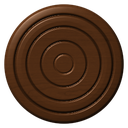
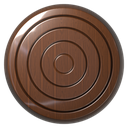
Боковое меню партии, шашки и кубики из Blender
- ☰ во время игры открывает прозрачную шторку слева: продолжить, начать заново, доска, звук, правила, главное меню;
  сложность видна, но закреплена за партией — новая применяется со следующей
- шашки (кость, оникс, бук, орех) и грани кубика — рендер Blender: точёный профиль, лак, высверленные лунки

Claude-Session: https://claude.ai/code/session_013vq6NREHT7txoK1nXmxN83

diff --git a/index.html b/index.html
@@ -116,12 +116,12 @@ svg#board{position:absolute;inset:0;width:100%;height:100%;display:block}
 .d3 .cube{position:absolute;inset:0;transform-style:preserve-3d}
 .d3 .face{
   position:absolute;inset:0;border-radius:18%;backface-visibility:hidden;-webkit-backface-visibility:hidden;
-  background:radial-gradient(circle at 32% 28%,#fffdf6 0%,#efe5cf 55%,#d4c4a0 100%);
-  box-shadow:inset 0 0 0 1px rgba(176,138,62,.55),inset 0 calc(var(--ds,50px) * -.06) calc(var(--ds,50px) * .12) rgba(90,60,20,.25);
+  background:center/100% 100% no-repeat;   /* грань — рендер из Blender (boards/die-N.png), точки уже на ней */
   display:grid;grid-template:repeat(3,1fr)/repeat(3,1fr);padding:16%;
 }
 /* внутренний сердечник: закрывает щели между скруглёнными гранями, когда кубик повёрнут ребром */
-.d3 .core{position:absolute;inset:3%;border-radius:16%;background:#d9cba8}
+.d3 .core{position:absolute;inset:3%;border-radius:16%;background:#d8cdb0}
+.d3 .face i{visibility:hidden}
 /* лежащий кубик: боковые грани и сердечник скрыты, иначе при повороте на 90° их рёбра просвечивают тонкими линиями */
 .d3.still .face:not(.top),.d3.still .core{visibility:hidden}
 .d3 .pip{width:68%;height:68%;margin:auto;border-radius:50%;background:radial-gradient(circle at 40% 35%,#3a2a1a,#0f0904);box-shadow:inset 0 1px 1px rgba(0,0,0,.6)}
@@ -186,6 +186,26 @@ svg#board{position:absolute;inset:0;width:100%;height:100%;display:block}
 .seg{display:grid;grid-template-columns:repeat(3,1fr);border:1px solid var(--line);border-radius:10px;overflow:hidden}
 .seg button{border:0;border-radius:0;background:transparent;color:var(--muted);padding:10px 6px}
 .seg button.on{background:rgba(217,181,106,.16);color:var(--gold-hi)}
+.drawer-back{position:absolute;inset:0;z-index:6;background:rgba(0,0,0,.18);animation:fadeIn .2s ease-out}
+.drawer{position:absolute;top:0;bottom:0;left:0;width:min(340px,86%);overflow:auto;
+  background:rgba(18,13,9,.42);-webkit-backdrop-filter:blur(14px) saturate(1.2);backdrop-filter:blur(14px) saturate(1.2);   /* прозрачная шторка: сквозь неё видна доска */
+  border-right:1px solid rgba(217,181,106,.25);box-shadow:20px 0 50px rgba(0,0,0,.35);text-shadow:0 1px 2px rgba(0,0,0,.6);
+  padding:max(16px,var(--sat)) 18px max(16px,var(--sab)) max(18px,var(--sal));display:flex;flex-direction:column;gap:10px;
+  animation:slideIn .25s cubic-bezier(.2,.8,.2,1)}
+.drawer h3{font-family:var(--display);font-weight:400;font-size:28px;color:var(--gold-hi);margin:0 0 4px}
+.drawer h4{margin:8px 0 0;font-size:11px;letter-spacing:.16em;text-transform:uppercase;color:var(--muted);font-weight:500}
+.dclose{position:absolute;top:max(10px,var(--sat));right:10px;width:36px;height:36px;padding:0;border-radius:50%;border-color:transparent;background:transparent;color:var(--muted)}
+.dskins{display:grid;grid-template-columns:1fr 1fr;gap:8px}
+.drawer button:not(.primary):not(.skin){background:rgba(31,25,18,.45)}
+.drawer .seg{background:rgba(31,25,18,.35)}
+.dskins .skin{padding:4px;gap:4px;background:rgba(31,25,18,.45)}.dskins .skin span{font-size:12px}
+.dlevel{margin:0;display:flex;flex-direction:column;gap:3px;font-size:13px;color:var(--muted)}
+.dlevel b{color:var(--fg);font-weight:500;font-size:14.5px}
+.dlevel span::before{content:"🔒 "}
+.dfoot{margin-top:auto;display:grid;grid-template-columns:1fr 1fr;gap:8px;padding-top:8px}
+@keyframes slideIn{from{transform:translateX(-100%)}}
+@keyframes fadeIn{from{opacity:0}}
+@media (prefers-reduced-motion:reduce){.drawer,.drawer-back{animation:none}}
 .nettext{margin:0;color:var(--muted);font-size:14.5px}
 .netlink{font-size:14px;color:var(--gold-hi);background:#0f0b08;border:1px solid var(--line);border-radius:10px;padding:10px 12px;word-break:break-all;-webkit-user-select:text;user-select:text}
 .hint{font-size:12.5px;color:var(--muted);margin:-6px 0 0}
@@ -231,6 +251,30 @@ svg#board{position:absolute;inset:0;width:100%;height:100%;display:block}
       </svg>
       <div class="dice3d" id="dice3d"></div>
     </div>
+  </div>
+
+  <div class="drawer-back" id="drawer" hidden>
+    <aside class="drawer" role="dialog" aria-label="Меню партии">
+      <button class="dclose" id="dClose" aria-label="Закрыть">✕</button>
+      <h3>Партия</h3>
+      <button class="primary" id="dResume">Продолжить игру</button>
+      <button id="dNew">Начать заново</button>
+      <h4>Доска</h4>
+      <div class="dskins" id="dSkins"></div>
+      <h4>Звук</h4>
+      <div class="seg" id="dSounds" style="grid-template-columns:1fr 1fr">
+        <button data-snd="on">Включён</button>
+        <button data-snd="off">Выключен</button>
+      </div>
+      <div id="dLevelBox">
+        <h4>Сложность компьютера</h4>
+        <p class="dlevel"><b id="dLevel"></b><span>Во время партии не меняется — выберите в настройках главного меню перед новой игрой.</span></p>
+      </div>
+      <div class="dfoot">
+        <button id="dRules">Правила</button>
+        <button id="dMain">Главное меню</button>
+      </div>
+    </aside>
   </div>
 
   <div class="win" id="over" hidden>
@@ -327,7 +371,7 @@ svg#board{position:absolute;inset:0;width:100%;height:100%;display:block}
 (()=>{
 'use strict';
 const $=id=>document.getElementById(id);
-const APP_VERSION='21';   // совпадает с VERSION в sw.js; добавляется к адресам картинок, чтобы новые доски не брались из старого кэша
+const APP_VERSION='22';   // совпадает с VERSION в sw.js; добавляется к адресам картинок, чтобы новые доски не брались из старого кэша
 const NS='http://www.w3.org/2000/svg';
 const f2=v=>(+v).toFixed(1);
 
@@ -379,6 +423,7 @@ const SKINS={
 };
 // картинки грузим заранее, чтобы смена доски и первые шашки не мигали
 $('app').style.setProperty('--table',`url(boards/table.webp?v=${APP_VERSION})`);
+for(let f=1;f<=6;f++){const im=new Image();im.src=`boards/die-${f}.png?v=${APP_VERSION}`;}
 for(const k of [...Object.keys(SKINS),...Object.keys(CK).map(c=>'ck-'+c)]){const im=new Image();im.src=`boards/${k}.${k.startsWith('ck-')?'png':'webp'}?v=${APP_VERSION}`;}
 
 /* ---------- правила ---------- */
@@ -595,7 +640,7 @@ function saveGame(){
   try{
     if(G.phase==='over'||G.phase==='start'){localStorage.removeItem('nardy-game-v1');return;}
     const phase=G.phase==='rolling'?'roll':G.phase;
-    localStorage.setItem('nardy-game-v1',JSON.stringify({mode,s:{o:[...G.s.o],n:[...G.s.n],off:G.s.off},turn:G.turn,phase,dice:G.dice,diceAt:G.diceAt,rem:G.rem,headUsed:G.headUsed,headLimit:G.headLimit,first:G.first}));
+    localStorage.setItem('nardy-game-v1',JSON.stringify({mode,s:{o:[...G.s.o],n:[...G.s.n],off:G.s.off},turn:G.turn,phase,dice:G.dice,diceAt:G.diceAt,rem:G.rem,headUsed:G.headUsed,headLimit:G.headLimit,first:G.first,level:G.level}));
   }catch(e){}
 }
 function readSaved(){try{return JSON.parse(localStorage.getItem('nardy-game-v1')||'null');}catch(e){return null;}}
@@ -619,7 +664,7 @@ function newGame(m){
   clearTimers(); netLeave();
   if(m) mode=m;
   loadScore();
-  G={s:freshState(),turn:0,phase:'start',dice:[0,0],diceAt:null,rem:[],headUsed:0,headLimit:1,first:[true,true],hist:[],sel:null,steps:[],targets:null};
+  G={s:freshState(),turn:0,phase:'start',dice:[0,0],diceAt:null,rem:[],headUsed:0,headLimit:1,first:[true,true],hist:[],sel:null,steps:[],targets:null,level:settings.level};   // сложность закреплена за партией
   $('over').hidden=true; busy=false; flyHide=null; $('lFx').innerHTML=''; clearDice();
   showGame();
   render();
@@ -629,7 +674,7 @@ function resumeGame(){
   const v=readSaved(); if(!v){newGame(mode);return;}
   clearTimers();
   mode=v.mode; loadScore();
-  G={s:{o:Int8Array.from(v.s.o),n:Int8Array.from(v.s.n),off:v.s.off},turn:v.turn,phase:v.phase,dice:v.dice,diceAt:v.diceAt||null,rem:v.rem,headUsed:v.headUsed,headLimit:v.headLimit,first:v.first,hist:[],sel:null,steps:[],targets:null};
+  G={s:{o:Int8Array.from(v.s.o),n:Int8Array.from(v.s.n),off:v.s.off},turn:v.turn,phase:v.phase,dice:v.dice,diceAt:v.diceAt||null,rem:v.rem,headUsed:v.headUsed,headLimit:v.headLimit,first:v.first,hist:[],sel:null,steps:[],targets:null,level:v.level||settings.level};
   $('over').hidden=true; busy=false; flyHide=null; $('lFx').innerHTML='';
   showGame();
   if(G.phase==='move') placeDice(G.dice); else clearDice();
@@ -659,7 +704,7 @@ function dieEl(v){
   for(const f of [1,2,3,4,5,6]){
     const [a,b]=FACE[f]; let pips='';
     for(let k=0;k<9;k++) pips+=PIPIDX[f].includes(k)?`<i class="pip${f===1?' red':''}"></i>`:'<i></i>';
-    faces+=`<div class="face${f===v?' top':''}" style="transform:rotateX(${a}deg) rotateY(${b}deg) translateZ(calc(var(--ds) / 2))">${pips}</div>`;
+    faces+=`<div class="face${f===v?' top':''}" style="background-image:url(boards/die-${f}.png?v=${APP_VERSION});transform:rotateX(${a}deg) rotateY(${b}deg) translateZ(calc(var(--ds) / 2))">${pips}</div>`;
     faces+=`<div class="core" style="transform:rotateX(${a}deg) rotateY(${b}deg) translateZ(calc(var(--ds) * .47))"></div>`;
   }
   el.innerHTML=`<div class="shadow"></div><div class="mover"><div class="cube">${faces}</div></div>`;
@@ -970,7 +1015,7 @@ function aiTurn(){
   });
 }
 function aiPlay(){
-  const path=aiChoose(settings.level); let k=0;
+  const path=aiChoose(G.level||settings.level); let k=0;
   const next=()=>{
     if(G.phase!=='move') return;
     if(k>=path.length){later(endTurn,450);return;}
@@ -1378,7 +1423,7 @@ function renderPanel(){
   if(mode==='net') for(const pl of [0,1]) $('n'+pl).textContent=pl===G.me?'Вы':'Друг'+(NET&&NET.ready&&!NET.opp?' · не в сети':'');
   else{
     $('n0').textContent=mode==='ai'?'Вы':'Белые';
-    $('n1').textContent=mode==='ai'?`Компьютер · ${LEVELS[settings.level][1]}`:'Чёрные';
+    $('n1').textContent=mode==='ai'?`Компьютер · ${LEVELS[G.level||settings.level][1]}`:'Чёрные';
   }
   const human=isHuman(G.turn);
   $('bMain').hidden=!(G.phase==='move'&&human&&!busy&&!G.auto&&!G.steps.length&&!G.netPend);
@@ -1430,17 +1475,21 @@ function buildSkinPicker(){
     for(let n=0;n<5;n++){const [x,y]=slotXY(12,n,5);pv+=checker(x,y,1,0,sk.ck);}
     h+=`<button class="skin" data-skin="${k}"><svg viewBox="0 0 1100 700"><image href="boards/${k}-thumb.webp?v=${APP_VERSION}" x="0" y="0" width="1100" height="700"/>${pv}</svg><span>${sk.name}</span></button>`;
   }
-  $('skins').innerHTML=h;
+  $('skins').innerHTML=h; $('dSkins').innerHTML=h;
 }
 function paintSettings(){
+  document.querySelectorAll('#dSkins .skin').forEach(b=>b.classList.toggle('on',b.dataset.skin===settings.skin));
+  document.querySelectorAll('#dSounds button').forEach(b=>b.classList.toggle('on',(b.dataset.snd==='on')===settings.sound));
   document.querySelectorAll('#skins .skin').forEach(b=>b.classList.toggle('on',b.dataset.skin===settings.skin));
   document.querySelectorAll('#levels button').forEach(b=>b.classList.toggle('on',b.dataset.lvl===settings.level));
   document.querySelectorAll('#sounds button').forEach(b=>b.classList.toggle('on',(b.dataset.snd==='on')===settings.sound));
-  $('lvlHint').textContent=LEVELS[settings.level][2];
+  const playing=mode==='ai'&&G&&G.phase!=='over'&&(G.level||settings.level)!==settings.level;
+  $('lvlHint').textContent=LEVELS[settings.level][2]+(playing?` Начатая партия доигрывается на уровне «${LEVELS[G.level][1]}», новый — со следующей.`:'');
   $('lvlCap').textContent='Сложность: '+LEVELS[settings.level][1];
 }
-$('skins').addEventListener('click',e=>{const b=e.target.closest('.skin'); if(!b) return; settings.skin=b.dataset.skin; saveSettings(); buildStatic(); if(G) render(); paintSettings();});
+for(const id of ['skins','dSkins']) $(id).addEventListener('click',e=>{const b=e.target.closest('.skin'); if(!b) return; settings.skin=b.dataset.skin; saveSettings(); buildStatic(); if(G) render(); paintSettings();});
 $('levels').addEventListener('click',e=>{const b=e.target.closest('button'); if(!b) return; settings.level=b.dataset.lvl; saveSettings(); paintSettings(); if(G) renderPanel();});
+$('dSounds').addEventListener('click',e=>{const b=e.target.closest('button'); if(!b) return; settings.sound=b.dataset.snd==='on'; saveSettings(); paintSettings(); if(settings.sound){ac();sClack(false);}});
 $('sounds').addEventListener('click',e=>{const b=e.target.closest('button'); if(!b) return; settings.sound=b.dataset.snd==='on'; saveSettings(); paintSettings(); if(settings.sound){ac();sClack(false);}});
 $('bSettings').addEventListener('click',()=>{ if(!$('skins').innerHTML) buildSkinPicker(); paintSettings(); $('settings').hidden=false; });
 $('bSettingsClose').addEventListener('click',()=>{$('settings').hidden=true;});
@@ -1470,7 +1519,23 @@ $('bMain').addEventListener('click',()=>{
   if(G.phase==='move'&&!G.steps.length&&!G.auto&&!busy) humanEnd();
 });
 $('bUndo').addEventListener('click',undo);
-$('bMenu').addEventListener('click',()=>{ if(!busy&&!G.auto) showMenu(); });
+// ☰ во время партии — боковая шторка: доска, звук, правила, выход в меню. Сложность видна, но не меняется до новой партии.
+function openDrawer(){
+  if(!$('dSkins').innerHTML) buildSkinPicker();
+  paintSettings();
+  $('dNew').hidden=mode==='net';
+  $('dLevelBox').hidden=mode!=='ai';
+  $('dLevel').textContent=LEVELS[G.level||settings.level][0];
+  $('drawer').hidden=false;
+}
+const closeDrawer=()=>{ $('drawer').hidden=true; };
+$('bMenu').addEventListener('click',openDrawer);
+$('dClose').addEventListener('click',closeDrawer);
+$('dResume').addEventListener('click',closeDrawer);
+$('drawer').addEventListener('click',e=>{ if(e.target===$('drawer')) closeDrawer(); });
+$('dNew').addEventListener('click',()=>{ if(busy||G.auto) return; if(!confirm('Начать партию заново? Текущая позиция пропадёт.')) return; closeDrawer(); ac(); newGame(mode); });
+$('dRules').addEventListener('click',()=>{ closeDrawer(); $('rules').hidden=false; });
+$('dMain').addEventListener('click',()=>{ if(busy||G.auto) return; closeDrawer(); showMenu(); });
 $('bAgain').addEventListener('click',()=>{ac(); if(mode==='net'){ if(NET) netSend({t:'new'}); } else newGame(mode);});
 $('bToMenu').addEventListener('click',showMenu);
 $('mAi').addEventListener('click',()=>{ac();newGame('ai');});
@@ -1491,7 +1556,8 @@ $('bRules').addEventListener('click',()=>{$('rules').hidden=false;});
 $('bRulesClose').addEventListener('click',()=>{$('rules').hidden=true;});
 $('rules').addEventListener('click',e=>{if(e.target===$('rules'))$('rules').hidden=true;});
 document.addEventListener('keydown',e=>{
-  if(!G||!$('menu').hidden) return;
+  if(e.key==='Escape'&&!$('drawer').hidden){ closeDrawer(); return; }
+  if(!G||!$('menu').hidden||!$('drawer').hidden) return;
   if(e.target.closest('button')) return;
   if(e.code==='Space'){
     e.preventDefault(); ac();

diff --git a/sw.js b/sw.js
@@ -1,5 +1,5 @@
 // Офлайн-кэш: страница, доски, звуки и шрифты кэшируются при установке.
-const V = '21';                 // = APP_VERSION в index.html
+const V = '22';                 // = APP_VERSION в index.html
 const VERSION = 'nardy-v' + V;
 const SHELL = [
   './',
@@ -11,6 +11,7 @@ const SHELL = [
   ...['night', 'ararat', 'glass', 'yerevan'].flatMap(k => [`boards/${k}.webp?v=${V}`, `boards/${k}-thumb.webp?v=${V}`]),
   ...['ivory', 'onyx', 'beech', 'walnut'].map(k => `boards/ck-${k}.png?v=${V}`),
   `boards/table.webp?v=${V}`,
+  ...[1, 2, 3, 4, 5, 6].map(f => `boards/die-${f}.png?v=${V}`),
 ];
 const SOUNDS = ['dice-throw-1.m4a','dice-throw-2.m4a','dice-throw-3.m4a','chip-lay-1.m4a','chip-lay-2.m4a','chip-lay-3.m4a','chips-collide-1.m4a','chips-collide-2.m4a','chips-collide-3.m4a','chips-stack-1.m4a','chips-stack-2.m4a']; // те же файлы, что SOUND_FILES в index.html
 

diff --git a/tools/blender_pieces.py b/tools/blender_pieces.py
@@ -1,0 +1,68 @@
+# Шашки и грани кубика в Blender (Cycles), по слоям tools/pieces_layers.py.
+# Результат: boards/ck-<имя>.png (128×128) и boards/die-<1..6>.png (256×256) с прозрачным фоном.
+import os, sys, math
+import numpy as np
+import bpy
+from PIL import Image
+
+ROOT = os.path.join(os.path.dirname(os.path.abspath(__file__)), '..')
+PRE, OUTD, TEX = os.path.join(ROOT, '.preview'), os.path.join(ROOT, 'boards'), os.path.join(ROOT, 'tools', 'tex')
+
+
+def render(name, out_png, size, die=False):
+    bpy.ops.wm.read_factory_settings(use_empty=True)
+    sc = bpy.context.scene
+    L = np.load(os.path.join(PRE, name + '.npz'))
+    h, alb, alpha = L['h'], L['alb'], L['alpha']
+    n = h.shape[0]
+    ys, xs = np.mgrid[0:n, 0:n]
+    co = np.stack([xs / n, -ys / n, h], -1).reshape(-1, 3).astype(np.float32)
+    q = (ys[:-1, :-1] * n + xs[:-1, :-1]).ravel()
+    quads = np.stack([q, q + n, q + n + 1, q + 1], -1).astype(np.int32)
+    me = bpy.data.meshes.new('p')
+    me.vertices.add(len(co)); me.vertices.foreach_set('co', co.ravel())
+    me.loops.add(quads.size); me.loops.foreach_set('vertex_index', quads.ravel())
+    me.polygons.add(len(quads)); me.polygons.foreach_set('loop_start', np.arange(0, quads.size, 4, dtype=np.int32))
+    uv = me.uv_layers.new(name='UV'); uvv = np.stack([co[:, 0], 1 + co[:, 1]], -1)
+    uv.data.foreach_set('uv', uvv[quads.ravel()].ravel())
+    me.update(calc_edges=True); me.polygons.foreach_set('use_smooth', np.ones(len(quads), bool))
+    ob = bpy.data.objects.new('p', me); sc.collection.objects.link(ob)
+    a = np.concatenate([np.clip(alb, 0, 1) ** 2.2, alpha[..., None]], -1).astype(np.float32)
+    im = bpy.data.images.new('a', n, n, alpha=True, float_buffer=True); im.colorspace_settings.name = 'Non-Color'
+    im.pixels.foreach_set(a[::-1].ravel()); im.update(); im.pack()
+    mat = bpy.data.materials.new('m'); mat.use_nodes = True; nt = mat.node_tree; N = nt.nodes; Lk = nt.links.new
+    bs = N['Principled BSDF']; tc = N.new('ShaderNodeTexCoord')
+    ti = N.new('ShaderNodeTexImage'); ti.image = im; ti.interpolation = 'Cubic'; Lk(tc.outputs['UV'], ti.inputs['Vector'])
+    Lk(ti.outputs['Color'], bs.inputs['Base Color'])
+    bs.inputs['Roughness'].default_value = .4 if die else .35
+    bs.inputs['Coat Weight'].default_value = .6 if die else .8
+    bs.inputs['Coat Roughness'].default_value = .08
+    if die or 'ivory' in name:                                # кость/пластик кубика — слегка просвечивает
+        bs.inputs['Subsurface Weight'].default_value = .15; bs.inputs['Subsurface Radius'].default_value = (.02, .015, .01)
+    tr = N.new('ShaderNodeBsdfTransparent'); mx = N.new('ShaderNodeMixShader')
+    Lk(ti.outputs['Alpha'], mx.inputs['Fac']); Lk(tr.outputs['BSDF'], mx.inputs[1]); Lk(bs.outputs['BSDF'], mx.inputs[2])
+    Lk(mx.outputs['Shader'], N['Material Output'].inputs['Surface'])
+    me.materials.append(mat)
+    w = bpy.data.worlds.new('w'); sc.world = w; w.use_nodes = True
+    env = w.node_tree.nodes.new('ShaderNodeTexEnvironment'); env.image = bpy.data.images.load(os.path.join(TEX, 'studio.hdr'))
+    w.node_tree.links.new(env.outputs['Color'], w.node_tree.nodes['Background'].inputs['Color'])
+    w.node_tree.nodes['Background'].inputs['Strength'].default_value = .6 if die else .35
+    key = bpy.data.lights.new('k', 'AREA'); key.size = 1.2; key.energy = 60 if die else 90
+    ko = bpy.data.objects.new('k', key); sc.collection.objects.link(ko)
+    ko.location = (-.4, .6, 1.4); ko.rotation_euler = (math.radians(-25), math.radians(-30), 0)
+    cam = bpy.data.cameras.new('c'); cam.type = 'ORTHO'; cam.ortho_scale = 1
+    co_ = bpy.data.objects.new('c', cam); sc.collection.objects.link(co_); sc.camera = co_; co_.location = (.5, -.5, 5)
+    sc.render.engine = 'CYCLES'; sc.cycles.device = 'CPU'; sc.cycles.samples = 96; sc.cycles.use_denoising = True
+    sc.render.resolution_x = sc.render.resolution_y = n; sc.render.film_transparent = True
+    sc.view_settings.view_transform = 'Standard'; sc.view_settings.look = 'Medium High Contrast'
+    sc.render.image_settings.file_format = 'PNG'; sc.render.image_settings.color_mode = 'RGBA'
+    tmp = os.path.join(PRE, name + '.png'); sc.render.filepath = tmp
+    bpy.ops.render.render(write_still=True)
+    Image.open(tmp).resize((size, size), Image.LANCZOS).save(out_png, optimize=True)
+    print('saved', out_png)
+
+
+for k in (() if 'dice' in sys.argv else ('ivory', 'onyx', 'beech', 'walnut')):
+    render(f'piece-ck-{k}', os.path.join(OUTD, f'ck-{k}.png'), 128)
+for v in range(1, 7):
+    render(f'piece-die-{v}', os.path.join(OUTD, f'die-{v}.png'), 256, die=True)

diff --git a/tools/pieces_layers.py b/tools/pieces_layers.py
@@ -1,0 +1,72 @@
+# Слои для 3D-рендера шашек и граней кубика (tools/blender_pieces.py): высоты и цвет на сетке N×N.
+import math, os, sys
+import numpy as np
+from PIL import Image, ImageDraw
+from scipy import ndimage as ndi
+sys.path.insert(0, os.path.dirname(__file__))
+from render_boards import star_halves, vnoise
+TEX = os.path.join(os.path.dirname(__file__), 'tex')
+N = 512
+
+
+def checker(kind):
+    y, x = np.mgrid[0:N, 0:N] - (N - 1) / 2
+    R = N * .47; r = np.hypot(x, y) / R
+    alpha = np.clip((1 - r) * R / 1.5, 0, 1)
+    # точёный профиль: борт со скруглённой кромкой, верх чуть выпуклый
+    h = np.minimum(np.sqrt(np.clip(1 - r ** 2, 0, 1)) * .05 + .16, np.clip((1 - r) / .09, 0, 1) ** .5 * .2)
+    g = lambda rad, d, w: -np.exp(-((r - rad) / w) ** 2) * d
+    if kind in ('beech', 'walnut'):
+        im = np.asarray(Image.open(os.path.join(TEX, 'white_maple_veneer.jpg' if kind == 'beech' else 'walnut_veneer.jpg')).convert('RGB').resize((N, N)), float) / 255
+        col = np.array((.80, .60, .40)) if kind == 'beech' else np.array((.30, .18, .09))
+        lum = im.mean(-1); alb = col * (lum / lum.mean())[..., None] ** 1.6
+        h = h + g(.80, .018, .012) + g(.60, .015, .01) + g(.38, .012, .009) + g(.16, .01, .008)
+        alb = alb * (1 - (np.exp(-((r - .8) / .013) ** 2) + np.exp(-((r - .6) / .011) ** 2) + np.exp(-((r - .38) / .01) ** 2))[..., None] * .35)
+        gloss = 1.0
+    else:
+        base = (.93, .89, .80) if kind == 'ivory' else (.035, .035, .04)
+        alb = np.ones((N, N, 3)) * np.array(base) * (1 + (vnoise(N, N, 6, 6, 93) - .5)[..., None] * .05)
+        sp = star_halves(0, 0, R * .55, R * .2, 8)
+        def pm(pts):
+            im = Image.new('L', (N, N), 0)
+            ImageDraw.Draw(im).polygon([(px + (N - 1) / 2, py + (N - 1) / 2) for px, py in pts], fill=255)
+            return ndi.gaussian_filter(np.asarray(im, float) / 255, 1)
+        lt = sum(pm(a) for a, b in sp); dk = sum(pm(b) for a, b in sp)
+        c1, c2 = ((.98, .95, .88), (.10, .08, .07)) if kind == 'ivory' else ((.88, .86, .82), (.01, .01, .012))
+        alb = alb * (1 - lt[..., None]) + np.array(c1) * lt[..., None]
+        alb = alb * (1 - dk[..., None]) + np.array(c2) * dk[..., None]
+        ring = np.exp(-((r - .77) / .015) ** 2)
+        alb = alb * (1 - ring[..., None]) + np.array((.69, .54, .24) if kind == 'ivory' else (.6, .6, .64)) * ring[..., None]
+        h = h + g(.77, .012, .012) - (lt + dk) * .004
+        gloss = 1.0
+    return dict(h=h, alb=alb, alpha=alpha, gloss=np.full((N, N), gloss), metal=np.zeros((N, N)))
+
+
+PIPS = {1: [4], 2: [0, 8], 3: [0, 4, 8], 4: [0, 2, 6, 8], 5: [0, 2, 4, 6, 8], 6: [0, 2, 3, 5, 6, 8]}
+
+
+def die_face(v):
+    """Грань кубика сверху: скруглённые рёбра (суперэллипс), лунки-точки, закрашенные чёрным (единица — красным)."""
+    y, x = (np.mgrid[0:N, 0:N] + .5) / N * 2 - 1
+    q = (np.abs(x) ** 6 + np.abs(y) ** 6) ** (1 / 6)
+    alpha = np.clip((1 - q) * N / 3, 0, 1)
+    h = np.sqrt(np.clip(1 - np.clip((q - .78) / .22, 0, 1) ** 2, 0, 1)) * .25
+    alb = np.ones((N, N, 3)) * np.array((.90, .86, .76))
+    pr = .2 if v == 1 else .15
+    for k in PIPS[v]:
+        cx, cy = (k % 3 - 1) * .5, (k // 3 - 1) * .5
+        d = np.hypot(x - cx, y - cy) / pr
+        cup = np.clip(1 - d, 0, 1)
+        h -= np.sqrt(np.clip(1 - d ** 2, 0, 1)) * .09            # высверленная лунка
+        paint = np.clip((.92 - d) * 25, 0, 1)
+        alb = alb * (1 - paint[..., None]) + np.array((.55, .05, .05) if v == 1 else (.03, .025, .02)) * paint[..., None]
+    return dict(h=h, alb=alb, alpha=alpha, gloss=np.full((N, N), .6), metal=np.zeros((N, N)))
+
+
+if __name__ == '__main__':
+    out = os.path.join(os.path.dirname(__file__), '..', '.preview')
+    for k in ('ivory', 'onyx', 'beech', 'walnut'):
+        np.savez_compressed(os.path.join(out, f'piece-ck-{k}.npz'), **checker(k))
+    for v in range(1, 7):
+        np.savez_compressed(os.path.join(out, f'piece-die-{v}.npz'), **die_face(v))
+    print('saved pieces')

diff --git a/tools/render_boards.py b/tools/render_boards.py
@@ -802,6 +802,7 @@ def board_yerevan():
         nh, nw = hl.shape; y0, x0 = int(round(350 * S - nh / 2)), int(round(cx * S - nw / 2))
         win = (slice(y0, y0 + nh), slice(x0, x0 + nw))
         hl = hl * (1 - dm[win])                               # пункты-вставки лежат поверх резьбы
+        hl = hl * 1.3                                        # рельеф чуть выразительнее
         h[win] += hl
         # патина: в выборках и бороздах дерево темнее, как у морёной резьбы
         cav = np.clip((ndi.gaussian_filter(hl, 5) - hl) / 3.5, 0, 1) + np.clip(-hl / 6, 0, 1)
